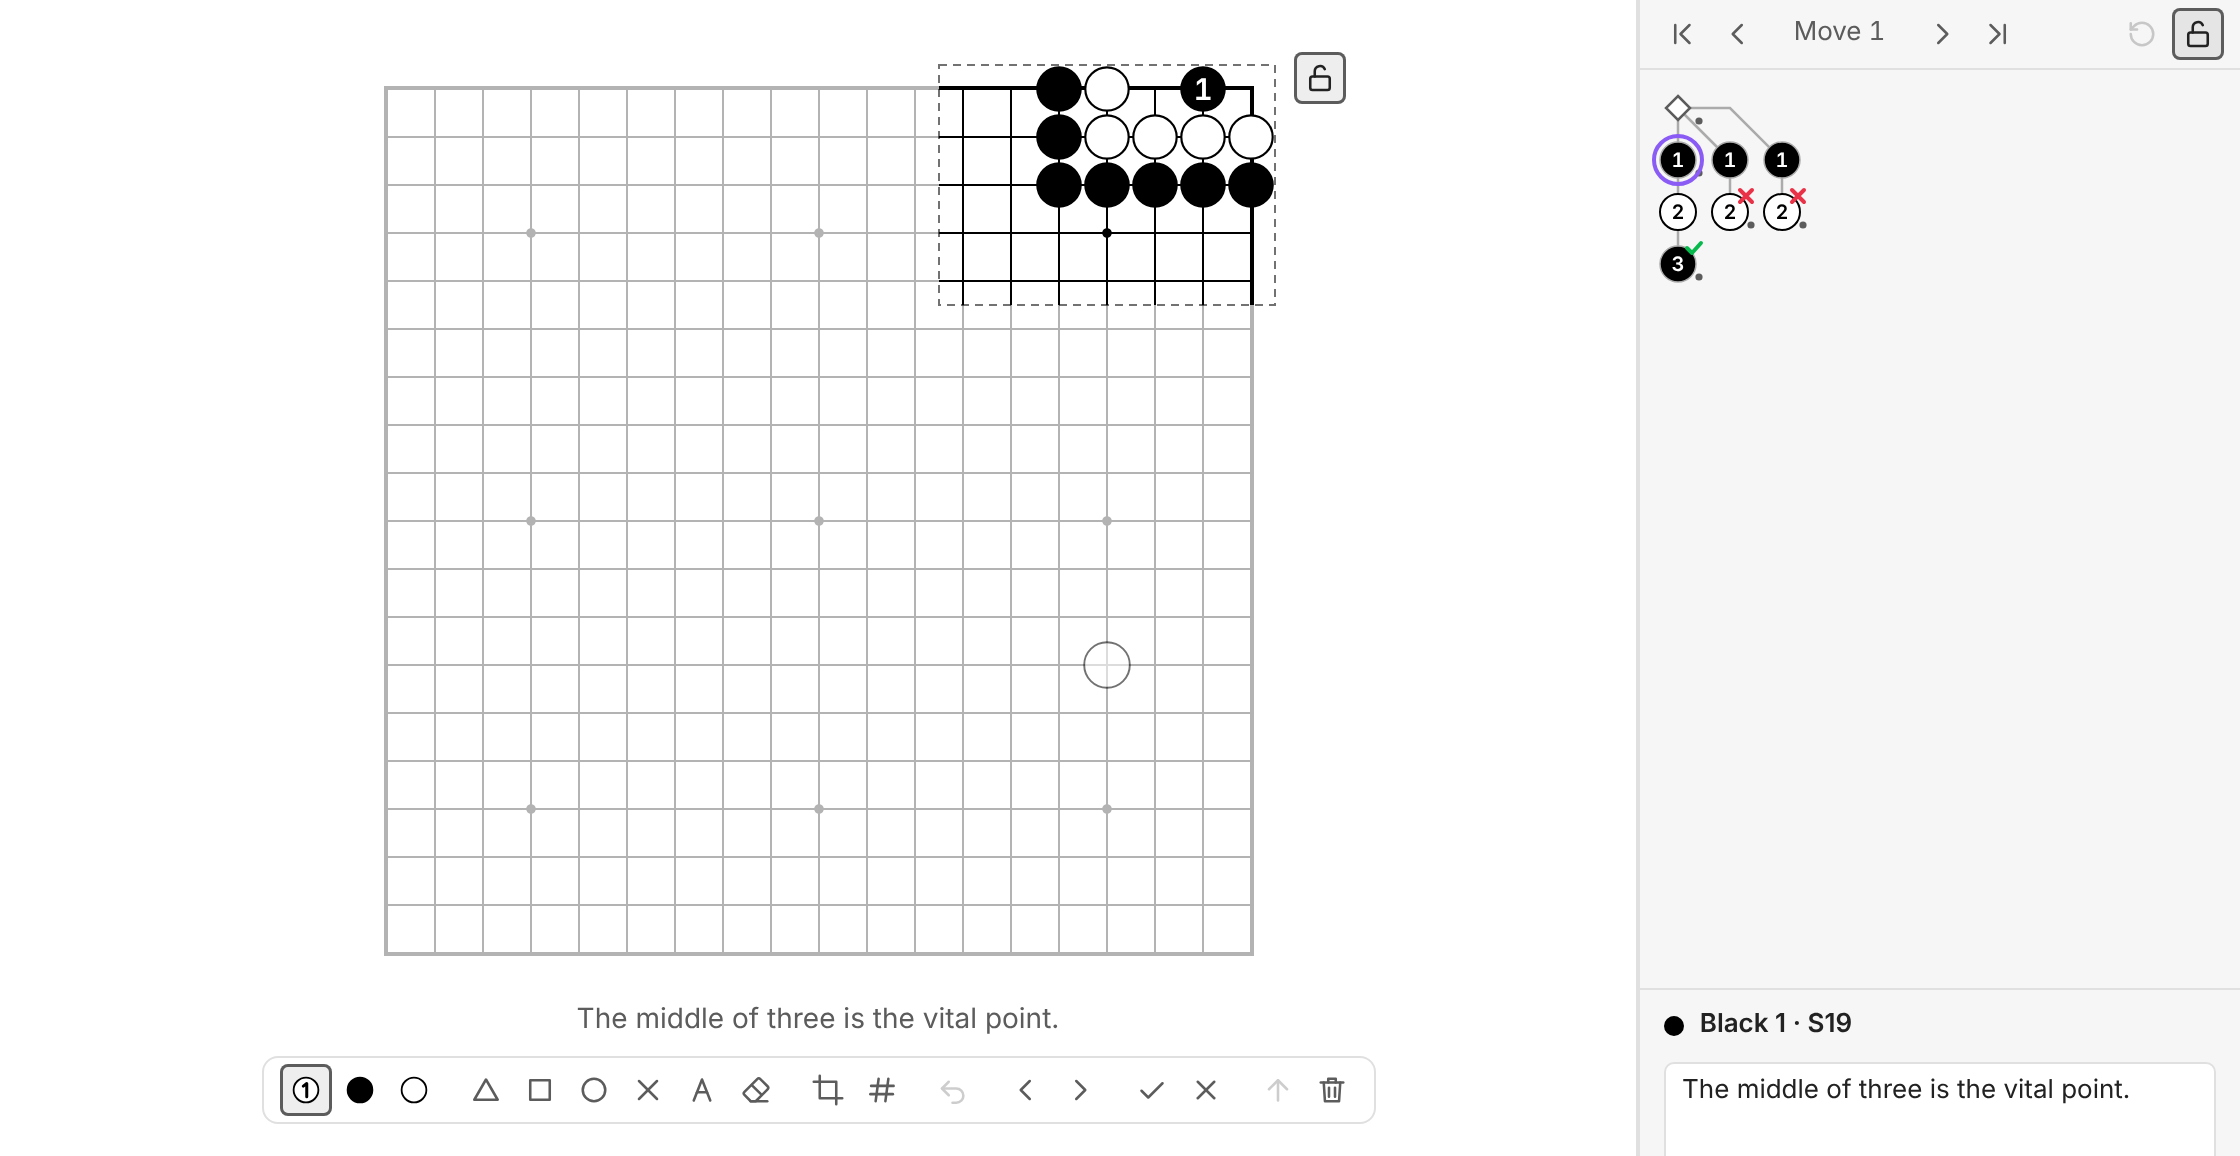
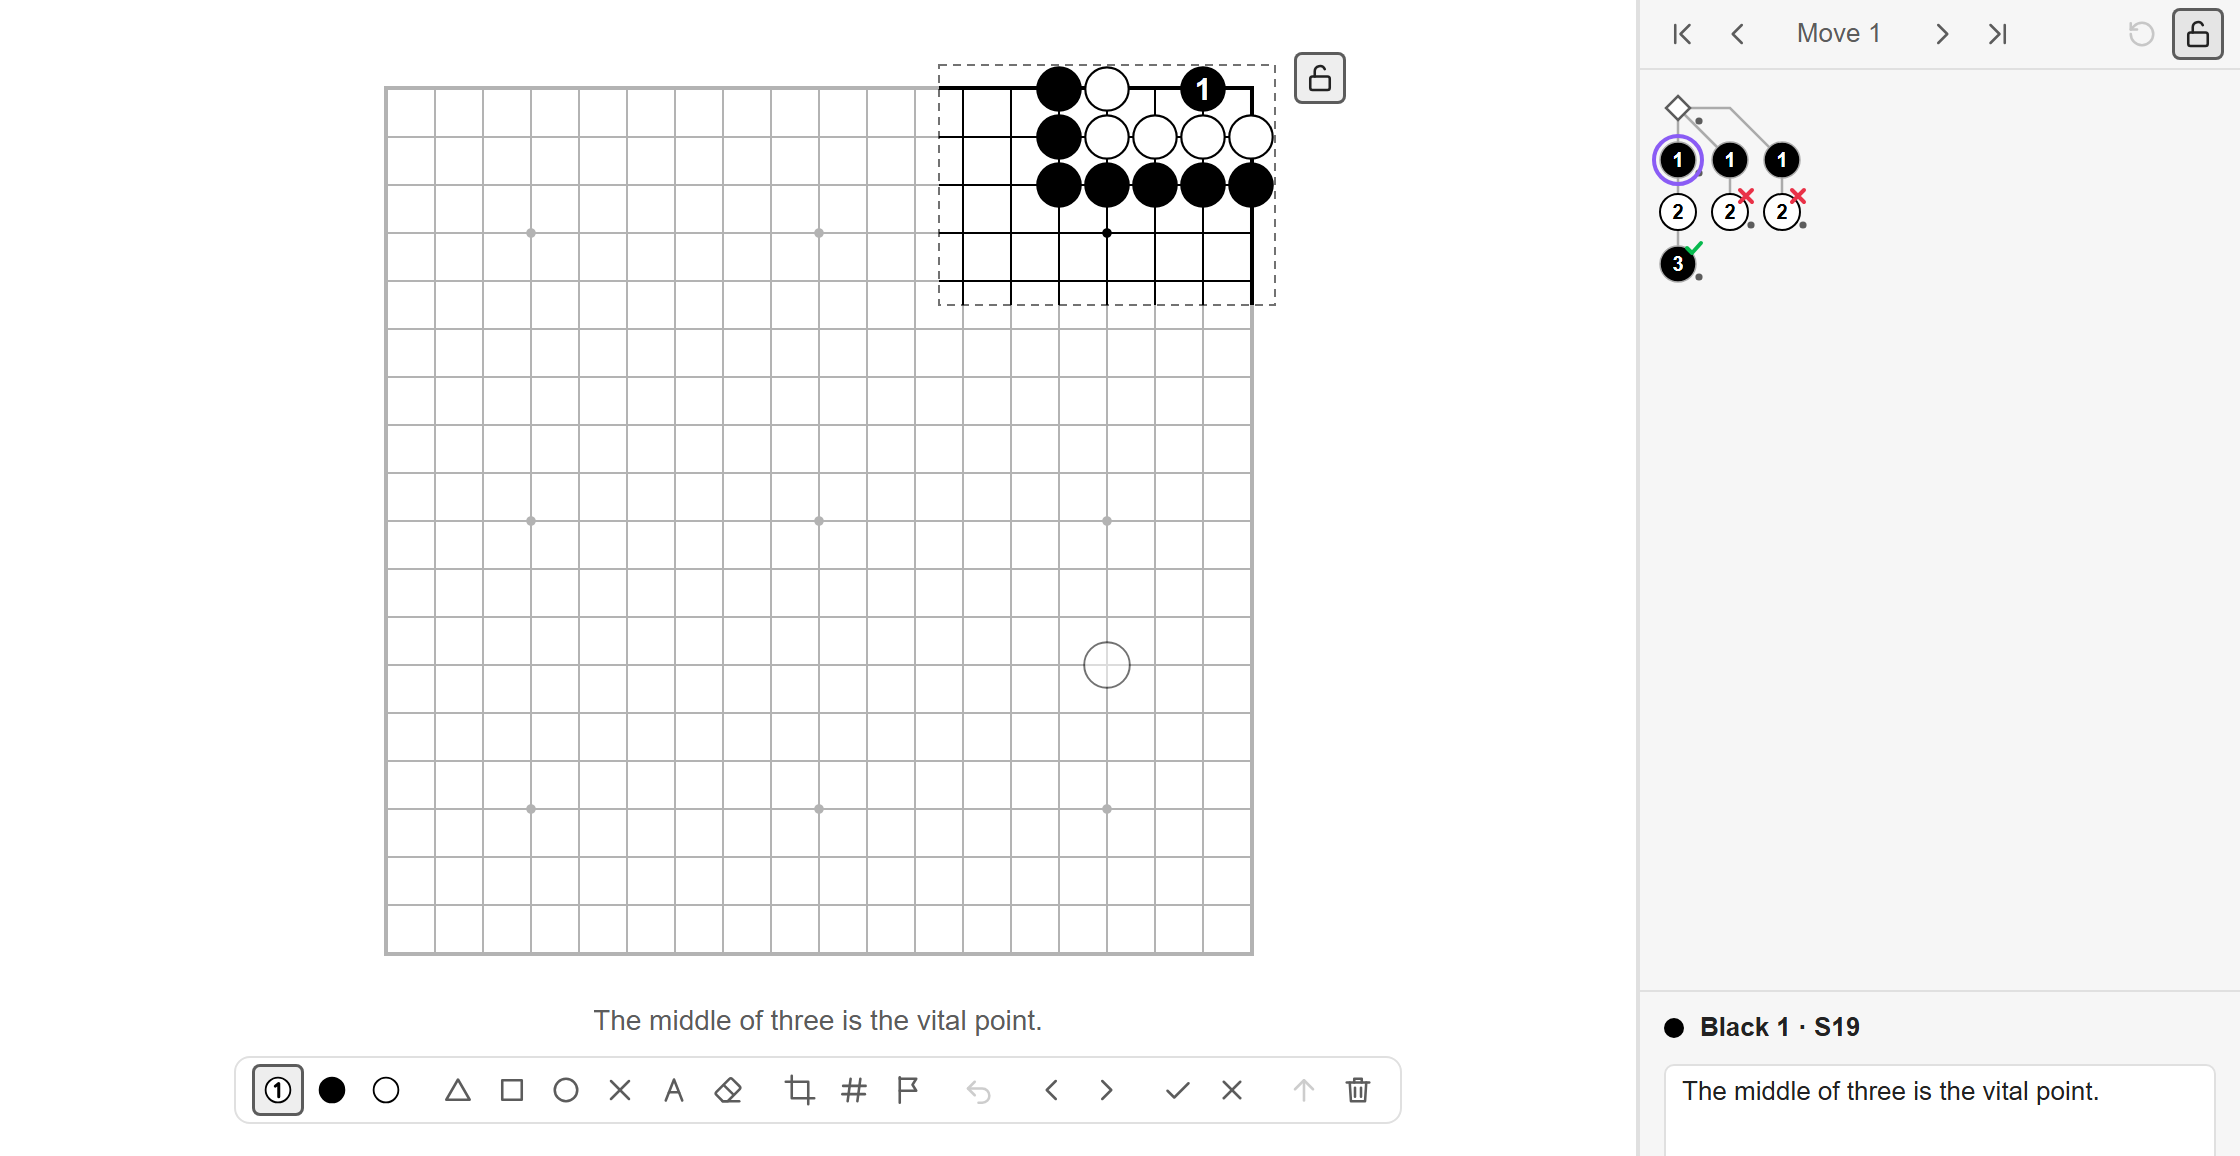
Add a start-position tool: choose where a locked board opens
The flag button in the editing toolbar writes a move: line for the
position on the board (main line only), and clicking it again on that
position removes the line. Problems with a chosen start are solved from
there.

diff --git a/tests/session.test.ts b/tests/session.test.ts
@@ -638,6 +638,80 @@ test('figure switch: the locked board shows the numbered main line instead of th
 	assert.deepEqual(r.header, ['numbers: 2-3 from 1']);
 });
 
+test('the start switch chooses the position the board opens at', () => {
+	const s = make('scale: 0.8\n(;SZ[9];B[dd];W[ee](;B[ff];W[gg])(;B[cc]))');
+	assert.equal(moveOf(s.home), 'Wgg'); // a game record opens at its last move
+	s.setEdit(true);
+	assert.equal(s.hasStart, false);
+	s.first();
+	s.next();
+	s.next();
+	assert.equal(s.canSetStart, true);
+	s.toggleStart();
+	assert.deepEqual(s.header, ['scale: 0.8', 'move: 2']);
+	assert.equal(s.dirtyHeader, true);
+	assert.equal(s.home, s.cur);
+	assert.equal(s.hasStart, true);
+	assert.equal(s.blockBody(), 'scale: 0.8\nmove: 2\n(;SZ[9];B[dd];W[ee](;B[ff];W[gg])(;B[cc]))'); // the game itself is left alone
+	s.last();
+	s.setEdit(false); // locking goes to the chosen position
+	assert.equal(moveOf(s.cur), 'Wee');
+	assert.equal(s.model().grid[5 * 9 + 5], 0); // move 3 is not on the board
+	// the opening position itself is "move: 0"
+	s.setEdit(true);
+	s.first();
+	s.toggleStart();
+	assert.deepEqual(s.header, ['scale: 0.8', 'move: 0']);
+	assert.equal(s.home, s.root);
+	// pressed again on the chosen position, the choice is taken back
+	s.toggleStart();
+	assert.deepEqual(s.header, ['scale: 0.8']);
+	assert.equal(s.hasStart, false);
+	assert.equal(moveOf(s.home), 'Wgg');
+	// undo puts the line back
+	s.undo();
+	assert.deepEqual(s.header, ['scale: 0.8', 'move: 0']);
+	// a variation cannot be reached by a move number
+	s.first();
+	s.next();
+	s.next();
+	s.next();
+	s.sibling(1);
+	assert.equal(moveOf(s.cur), 'Bcc');
+	assert.equal(s.canSetStart, false);
+	s.toggleStart();
+	assert.deepEqual(s.header, ['scale: 0.8', 'move: 0']);
+	// nor can a setup step after a move: "move: 1" leads to the move itself
+	const t = make('(;SZ[9];B[dd];AW[ee];W[ff])');
+	t.setEdit(true);
+	t.first();
+	t.next();
+	assert.equal(t.canSetStart, true);
+	t.next();
+	assert.equal(t.canSetStart, false);
+	// a root that only carries game info counts as the start
+	const g = make('(;GM[1]SZ[9]PB[x];AB[cc]AW[dd];B[ee])');
+	g.setEdit(true);
+	g.first();
+	g.toggleStart();
+	assert.deepEqual(g.header, ['move: 0']);
+});
+
+test('a problem with a chosen start is solved from there', () => {
+	const s = make(PROBLEM);
+	s.setEdit(true);
+	s.first();
+	s.next(); // B[sb], main line
+	s.next(); // W[sc]
+	s.toggleStart();
+	assert.deepEqual(s.header, ['move: 2']);
+	s.setEdit(false);
+	assert.equal(moveOf(s.cur), 'Wsc');
+	assert.equal(s.model().hint, 'Black to play');
+	click(s, 'ra');
+	assert.equal(s.status(), 'correct');
+});
+
 test('boards that live in a file load later and never inline their SGF', () => {
 	const s = make('sgf: [[games/x.sgf]]\nmove: 2');
 	assert.equal(s.ready, false);

diff --git a/src/session.ts b/src/session.ts
@@ -400,24 +400,64 @@ export class Session {
 				}
 			}
 		}
-		let home = start;
-		if (target !== null && target > 0) {
-			let no = replay(pathTo(start), w, h).moveNo;
-			let n: SgfNode = start;
-			while (no < target) {
-				const next = firstSaved(n);
-				if (!next) break;
-				n = next;
-				if (getMove(n, w, h)) {
-					const mn = parseInt(n.props.MN?.[0] ?? '');
-					no = mn > 0 ? mn : no + 1;
-				}
-			}
-			home = n;
-		}
+		const home = target !== null && target > 0 ? this.walkMain(target) : start;
 		this.home = home;
 		this.startNo = replay(pathTo(start), w, h).moveNo;
 		this.homeNo = home === start ? this.startNo : replay(pathTo(home), w, h).moveNo;
+	}
+
+	/** The node a "move: N" line leads to: along the main line from `start` until move N. */
+	private walkMain(target: number): SgfNode {
+		const { w, h } = this;
+		let no = replay(pathTo(this.start), w, h).moveNo;
+		let n: SgfNode = this.start;
+		while (no < target) {
+			const next = firstSaved(n);
+			if (!next) break;
+			n = next;
+			if (getMove(n, w, h)) {
+				const mn = parseInt(n.props.MN?.[0] ?? '');
+				no = mn > 0 ? mn : no + 1;
+			}
+		}
+		return n;
+	}
+
+	/**
+	 * The "move:" value that makes the current node the resting position, or null when
+	 * none can: a variation, or a setup step after a move, is not on the way a move
+	 * number leads.
+	 */
+	private startValue(): string | null {
+		const cur = this.cur;
+		if (cur.temp) return null;
+		// (a root that only carries game info shows the same board as the start)
+		for (let n: SgfNode | null = this.start; n; n = n.parent) if (n === cur) return '0';
+		const no = replay(pathTo(cur), this.w, this.h).moveNo;
+		return no > 0 && this.walkMain(no) === cur ? String(no) : null;
+	}
+
+	/** Can the current position be made the one the board opens at? */
+	get canSetStart(): boolean {
+		return this.startValue() !== null;
+	}
+
+	/** Does a "move:" line choose where the board opens? */
+	get hasStart(): boolean {
+		return !!this.opts.move;
+	}
+
+	/**
+	 * Make the current position the one the locked board opens at. Pressed again on
+	 * that position, it takes the choice back, so the board opens where it would anyway.
+	 */
+	toggleStart(): void {
+		if (this.hasStart && this.cur === this.home) {
+			this.setHeader('move', null);
+			return;
+		}
+		const value = this.startValue();
+		if (value !== null) this.setHeader('move', value);
 	}
 
 	/* ----------------------------------------------------------------- events */

diff --git a/src/ui/boardview.ts b/src/ui/boardview.ts
@@ -334,6 +334,7 @@ export class BoardView extends MarkdownRenderChild implements SessionView {
 		}
 		const more: [string, string, string, () => void][] = [
 			['figure', 'figure', 'When locked, show the moves as a numbered figure', () => s.setFigure(!s.figure)],
+			['start', 'flag', 'Open the board at this position when the note is shown', () => s.toggleStart()],
 			['undo', 'undo', 'Undo (redo with Ctrl/Cmd+Shift+Z)', () => s.undo()],
 			['prev', 'prev', 'Previous move', () => s.prev()],
 			['next', 'next', 'Next move', () => s.next()],
@@ -344,7 +345,7 @@ export class BoardView extends MarkdownRenderChild implements SessionView {
 		];
 		for (const [id, ic, title, fn] of more) {
 			if (id === 'undo' || id === 'prev' || id === 'correct' || id === 'promote') group = el(bar, 'div', 'kifu-group');
-			// (the figure switch sits with the crop tool: both decide what the locked board shows)
+			// (the figure and start switches sit with the crop tool: they all decide what the locked board shows)
 			this.#toolBtns.set(id, iconButton(group, ic, title, fn));
 		}
 	}
@@ -360,6 +361,9 @@ export class BoardView extends MarkdownRenderChild implements SessionView {
 			if (input.ownerDocument.activeElement !== input && input.value !== s.nextLabel) input.value = s.nextLabel;
 		}
 		btn('figure').classList.toggle('is-active', s.figure);
+		const isStart = s.hasStart && s.cur === s.home;
+		btn('start').classList.toggle('is-active', isStart);
+		btn('start').disabled = !isStart && !s.canSetStart;
 		const mark = s.ownMark();
 		btn('correct').classList.toggle('is-active', mark === 'correct');
 		btn('incorrect').classList.toggle('is-active', mark === 'incorrect');

diff --git a/src/ui/dom.ts b/src/ui/dom.ts
@@ -59,6 +59,7 @@ const ICONS: Record<string, string> = {
 	CR: 'M12 4.5a7.5 7.5 0 1 0 0 15a7.5 7.5 0 1 0 0-15z',
 	MA: 'M6 6l12 12|M18 6L6 18',
 	label: 'M6.5 19L12 5l5.5 14|M8.7 13.5h6.6',
+	flag: 'M6.5 20.5v-17|M6.5 4.5h11l-2.5 4l2.5 4h-11',
 	figure: 'M9.75 4.5l-2 15|M16.25 4.5l-2 15|M4.75 9.25h15|M4.25 14.75h15',
 	eye: 'M2.75 12c2.3-4.2 5.4-6.3 9.25-6.3s6.95 2.1 9.25 6.3c-2.3 4.2-5.4 6.3-9.25 6.3S5.05 16.2 2.75 12z|M12 9.2a2.8 2.8 0 1 0 0 5.6a2.8 2.8 0 1 0 0-5.6z',
 	black: 'B' + CIRCLE,

diff --git a/README.md b/README.md
@@ -40,7 +40,7 @@ What a locked board shows:
 
 - a **problem** shows its starting position;
 - any other board shows the **last position of its main line** — so a sequence you drew with the play tool looks the way you left it;
-- a `numbers:` line turns that into a numbered figure, and a `move:` line picks another position (`move: 0` is the start).
+- a `numbers:` line turns that into a numbered figure, and a `move:` line picks another position (`move: 0` is the start). The ⚑ tool writes that line for you.
 
 ## Editing
 
@@ -56,6 +56,7 @@ While a board is unlocked the whole board is shown, with the part that will be h
 | A | Labels. The little box holds the next label: type `a`, `A`, `1`, `51`… and each click counts on from there. |
 | Eraser | Removes a mark or label; a second click removes the stone under it. |
 | Crop | Drag to choose the part of the board the locked board shows. Double-click to go back to the automatic crop. |
+| ⚑ Start | Makes the position on the board the one the locked board opens at, by writing a `move:` line. Click it again on that position to take the choice back. Only positions on the main line can be chosen: step there with ‹ › first. A problem chosen this way is solved from that position. |
 | # | Makes the locked board a *numbered figure* of the main line, or takes the numbers off again. Whatever a `numbers:` line said before is put back, so a range like `51-100`, or an `off`, is not lost by trying the switch. |
 | ↶ | Undo (`Ctrl/Cmd+Z` while the board has the keyboard; `Ctrl/Cmd+Shift+Z` or `Ctrl+Y` redoes). |
 | ‹ › | Previous / next move. |
